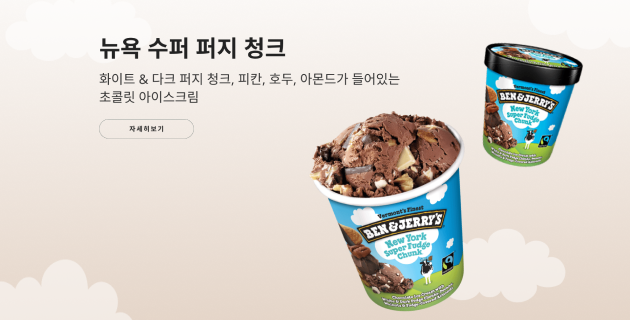
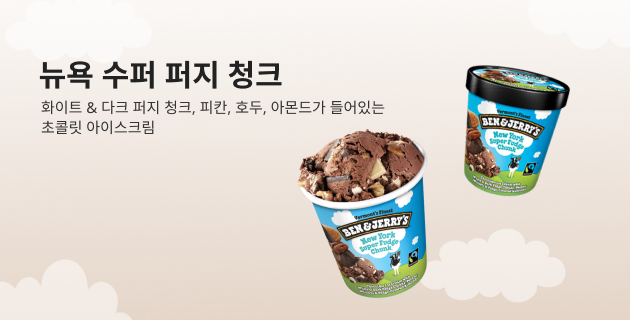
d

Changed region(s): [[0.0603, 0.0938, 0.9349, 0.9688]]

diff --git a/07company/css/style.css b/07company/css/style.css
@@ -7,8 +7,9 @@ html,body{height: 100%;}
 
 /* header */
 
-#header{width: 100%; position: fixed; z-index: 1000;}
-.navbarWrap {
+#header{width: 100%; z-index: 1000; position: fixed; transition: .5s;}
+#header.fixed{ position: fixed; background: white;}
+ .navbarWrap {
     display: flex;
     position: relative;
     justify-content: space-between;
@@ -42,7 +43,7 @@ html,body{height: 100%;}
     height: 200px;
 }
 /* submenu */
-.submenuWrap{
+.navbar .submenuWrap{
     position: absolute;
     width: 700px;
     height: 180px;
@@ -89,19 +90,19 @@ html,body{height: 100%;}
 
 
 /* visual */
+.txtWrap{
+    width: 1240px;
+    top: 30%; left: 15%;
+    position: relative;
+ }
 .visualWrap{
     width: 100%; height: 900px;
     background-image: url(../images/box_img01.png);
     background-position: center;
     background-size: cover;
     background-repeat: no-repeat;
-    position: relative;
     margin-bottom: 20px;
-}
-.txtWrap{
-   width: 1240px;
-   top: 30%; left: 15%;
-   position: relative;
+    position: relative;
 }
 .txtWrap h1{ font-size: 70px; margin-bottom: 20px;}
 .txtWrap p{ font-size: 40px; margin-bottom: 50px;}
@@ -116,27 +117,27 @@ html,body{height: 100%;}
     transition: .3s;
 }
 .txtWrap div:hover{background: rgba(0, 0, 0, .3)}
-.visualWrap img{ 
-    position: absolute;
-}
 .mlogo, .mVisual{display:none;}
 
 .ice01{
+    position: absolute;
     width: 400px; height: 300px;
-    left: calc(35%); top: calc(40%);
+    left: calc(30%); top: calc(40%);
     animation: ice01 1s forwards ;
     animation-delay: .5s;
   
 }
 .ice02{
+    position: absolute;
     width: 300px;height: 300px;
-    left: calc(60%); top: calc(15%);
+    left: calc(70%); top: calc(-65%);
     animation: ice01 1s forwards ;
     animation-delay: .8s;
 }
 .ice03{
+    position: absolute;
     width: 350px;height: 300px;
-    left: calc(60%); top: calc(60%);
+    left: calc(70%); top: calc(90%);
     animation: ice01 1s forwards ;
     animation-delay: 1s;
 }
@@ -232,9 +233,9 @@ html,body{height: 100%;}
     padding: 30px; 
 }
 .sImg img{width:100%;height: 100%;}
-.sTxt h2{margin-bottom: 5px; color: #A96D28;}
-.sTxt h3{font-size: 15px; margin-bottom: 10px;}
-.sTxt h4{font-size: 14px; margin-bottom: 10px;}
+.sTxt h2{margin-bottom: 10px; color: #A96D28; font-size: 35px;}
+.sTxt h3{color: #664723; font-size: 16px; margin-bottom: 10px;}
+.sTxt h4{font-size: 20px; margin-bottom: 15px; color: #222;}
 .sTxt p{font-size: 14px; color: #333;}
 
 .btnWrap{
@@ -277,6 +278,7 @@ html,body{height: 100%;}
     background: #FFA3ED;
     overflow: hidden;
     padding: 50px;
+   
 }
 .contents>ul>li:nth-child(6){
     background: #B360A2;
@@ -296,11 +298,15 @@ html,body{height: 100%;}
   justify-content: center;
   margin-bottom: 50px;
 }
+.contents>ul>li:nth-child(5) img,
+.contents>ul>li:nth-child(6) img,
+.contents>ul>li:nth-child(7) img{transition: .5s;}
 .contents>ul>li:nth-child(5) img:hover,
 .contents>ul>li:nth-child(6) img:hover,
 .contents>ul>li:nth-child(7) img:hover{
     transform: translateY(-45px);
-    transition: .3s;
+   
+    
 }
 
 .contents>ul>li:nth-child(8){
@@ -355,6 +361,7 @@ html,body{height: 100%;}
     border-radius: 50px;
     display: flex;
     justify-content: center;align-items: center;
+    cursor: pointer;
 }
 .sec02_Wrap>div img{width: 150px;height: 200px;}
 .sec02_Wrap h3{
@@ -415,6 +422,7 @@ html,body{height: 100%;}
 .eventWrap{
     height: 300px;
     display: flex;
+    gap: 5px;
     align-items: center;
     flex-basis: 50%;
 }
@@ -422,7 +430,6 @@ html,body{height: 100%;}
     font-weight: bold;
     font-size: 18px;
     width: 290px;height: 60px;
-    border: 1px solid #4B5E5E;
     display: flex;
     justify-content: center; align-items: center;
     border-radius: 30px;
@@ -438,20 +445,22 @@ html,body{height: 100%;}
     flex-direction: column;
     border-radius: 10px;
 }
+.eventWrap .store>p{background:white;}
 .eventWrap h3{font-size: 30px; line-height: 50px; }
 .eventWrap .store h3{
     color: white; 
     text-align: center;
     margin-bottom: 20px;
 }
-.eventWrap .store p:hover{background: rgba(0, 0, 0, .3);cursor: pointer;}
+.eventWrap .store p:hover{cursor: pointer;}
 .eventWrap .delievery{
     display: flex; width:630px; height: 100%;
     flex-direction: row;
-    border: 1px solid #000;
+    border: 1px solid #999;
     padding: 20px;
     border-radius: 10px;
 }
+.eventWrap .delievery p{background-color:#FE7B9A;color: white;}
 .delievery img{
     width: 150px;height: 150px;
     margin: 35px;
@@ -461,7 +470,7 @@ html,body{height: 100%;}
     color: #333;margin-top: 20px;
 }
 .delievery .deTxt h4{margin-bottom: 20px;}
-.delievery .deTxt p:hover{background: rgba(0, 0, 0, .3);cursor: pointer;}
+.delievery .deTxt p:hover{cursor: pointer;}
 
 /* footer */
 .footer{ width: 100%; background-color:#F6F6F6;}
@@ -492,17 +501,23 @@ html,body{height: 100%;}
 .subvisualWrap .txtWrap p{font-size: 20px; line-height: 30px;}
 .subMenu .tab{display: flex;}
 .subMenu{position: relative;
-   top: -5%;
+   top: -5%; 
 }
 
 .tab li {
     flex: 1 1 25%;
     height: 50px; display: flex;
     justify-content: center; align-items: center;
-    background: pink;
+    background: white;
     cursor: pointer;
     font-weight: bold;
 }
+.tab li.active{background: #ECEDEA;}
+.content{width: 1240px;position: relative;}
+.content p{position: absolute; right: 0; padding: 10px;font-weight: bold;}
+.content img{width: 100%;}
+.content div{display: none;}
+.content div:nth-child(1){display: block;}
 
 
 

diff --git a/07company/sub01.html b/07company/sub01.html
@@ -19,13 +19,13 @@
 <body>
 <header id="header">
     <div class="navbarWrap container">
-        <h1><a href="#"><img src="images/logo.png" alt=""></a></h1>
+        <h1><a href="./index.html"><img src="images/logo.png" alt=""></a></h1>
         <nav class="navbar">
            <ul>
                 <li class="active"><a href="#">회사소개</a>
                     <div class="submenuWrap">
                         <ul class="submenu">
-                            <li><a href="#">조직체계</a></li>
+                            <li><a href="./sub01.html">조직체계</a></li>
                             <li><a href="#">문의</a></li>
                             <li><a href="#">채용정보</a></li>
                             <li><a href="#">비즈니스</a></li>
@@ -46,9 +46,9 @@
                     <div class="submenuWrap">
                         <ul class="submenu">
                             <li><a href="#">보도자료</a></li>
-                            <li><a href="#">아이스크림을 만드는 방법</a></li>
-                            <li><a href="#">벤앤제리스 재단</a></li>
-                            <li><a href="#">벤앤제리스 사회활동</a></li>
+                            <li><a href="#">제조방법</a></li>
+                            <li><a href="#">재단소개</a></li>
+                            <li><a href="#"></a>사회활동</a></li>
                         </ul>
                     </div>
                 </li>
@@ -99,12 +99,28 @@
 </div>
 <div class="subMenu container">
     <ul class="tab">
-        <li>조직체계</li>
+        <li class="active">조직체계</li>
         <li>문의</li>
         <li>채용정보</li>
         <li>비즈니스</li>
     </ul>
     <div class="content">
+        <div>
+            <p>HOME > 회사소개 > 조직체계</p>
+            <img src="images/sub_con01.png" alt="">
+        </div>
+        <div>
+            <p>HOME > 회사소개 > 문의</p>
+            <img src="images/sub_con01.png" alt="">
+        </div>
+        <div>
+            <p>HOME > 회사소개 > 채용정보</p>
+            <img src="images/sub_con01.png" alt="">
+        </div>
+        <div>
+            <p>HOME > 회사소개 > 비즈니스</p>
+            <img src="images/sub_con01.png" alt="">
+        </div>
 
     </div>
 
@@ -139,5 +155,32 @@
 <script src="https://ajax.googleapis.com/ajax/libs/jquery/3.6.0/jquery.min.js"></script>
 <script src="https://cdnjs.cloudflare.com/ajax/libs/Swiper/8.3.2/swiper-bundle.min.js" integrity="sha512-V1mUBtsuFY9SNr+ptlCQAlPkhsH0RGLcazvOCFt415od2Bf9/YkdjXxZCdhrP/TVYsPeAWuHa+KYLbjNbeEnWg==" crossorigin="anonymous" referrerpolicy="no-referrer"></script>
 <script src="js/script.js"></script>
+<script>
+    nowMenu(0);
+
+    let params = new URLSearchParams(location.search);
+
+    function tab(){
+        $(".tab li").click(function(){
+            let i = $(this).index();
+            $(".tab li").removeClass("active");
+            $(this).addClass("active")
+
+            $(".content div").hide().eq(i).show()
+        })
+    }
+    function view(i){
+        if(i == null){
+            $(".tab li").removeClass("active").eq(i).addClass("active");
+            $(".content div").hide().eq(i).show();
+
+            tab()
+        }else{
+            tab()
+        }
+    }
+    view(params.get("submenuWrap"))
+</script>
+
 </body>
 </html>

diff --git a/07company/index.html b/07company/index.html
@@ -19,10 +19,10 @@
 <body>
 <header id="header">
     <div class="navbarWrap container">
-        <h1><a href="#"><img src="images/logo.png" alt=""></a></h1>
+        <h1><a href="./index.html"><img src="images/logo.png" alt=""></a></h1>
         <nav class="navbar">
            <ul>
-                <li><a href="#">회사소개</a>
+                <li><a href="./sub01.html">회사소개</a>
                     <div class="submenuWrap">
                         <ul class="submenu">
                             <li><a href="#">조직체계</a></li>
@@ -92,16 +92,16 @@
 </header>
 
 <div class="visualWrap container">
+    
     <div class="txtWrap">
         <h1>아이스크림의 기준</h1>
         <p>최고의 품질로 보답합니다.</p>
         <div>자세히보기</div>
+        <img src="images/ice02.png" alt="" class="ice01">
+        <img src="images/ice01.png" alt="" class="ice02">
+        <img src="images/ice03.png" alt="" class="ice03">
     </div>
-
-    <img src="images/ice02.png" alt="" class="ice01">
-    <img src="images/ice01.png" alt="" class="ice02">
-    <img src="images/ice03.png" alt="" class="ice03">
-    
+ 
     <div class="mvisualWrap">
         <div><img src="images/logo.png" alt="" class="mlogo"></div>
         <div><img src="images/m_visual.png" alt="" class="mVisual"></div>
@@ -333,5 +333,8 @@
 <script src="https://ajax.googleapis.com/ajax/libs/jquery/3.6.0/jquery.min.js"></script>
 <script src="https://cdnjs.cloudflare.com/ajax/libs/Swiper/8.3.2/swiper-bundle.min.js" integrity="sha512-V1mUBtsuFY9SNr+ptlCQAlPkhsH0RGLcazvOCFt415od2Bf9/YkdjXxZCdhrP/TVYsPeAWuHa+KYLbjNbeEnWg==" crossorigin="anonymous" referrerpolicy="no-referrer"></script>
 <script src="js/script.js"></script>
+<script>
+    nowMenu("main")
+</script>
 </body>
 </html>

diff --git a/07company/js/script.js b/07company/js/script.js
@@ -1,3 +1,12 @@
+$(window).scroll(function(){
+    let scrollY = window.pageYOffset;
+
+    if( scrollY>10){
+        $("#header").addClass("fixed");
+    }else{
+        $("#header").removeClass("fixed");
+    }
+})
 
 
 
@@ -13,15 +22,15 @@ $(".overlay,.xicon").click(function(){
 
 $(".bg").slideUp();
 $(".navbar>ul>li").hover(function(){
-    $(".bg, .submenuWrap, .submenu").stop().slideDown();
+    $(".bg, .navbar .submenuWrap,.navbar .submenu").stop().slideDown();
 },function(){
-    $(".bg, .submenuWrap").stop().slideUp();
+    $(".bg, .navbar .submenuWrap").stop().slideUp();
 
 })
 
 
 console.log("index");
-$(".navbar>ul>").clone().appendTo(".mMenu")
+$(".navbar>ul>li").clone().appendTo(".mMenu")
 
 
 $(".mMenu>li>a").click(function(e){
@@ -30,9 +39,9 @@ $(".mMenu>li>a").click(function(e){
 
     $(".mMenu>li>a").parent().find(".submenuWrap").slideUp()
     if( $(this).hasClass("active") ){
-
+        $(".mMenu>li>a").removeClass("active");
     }else{
-        $(this).parent().find(".submenuWrap").show();
+        $(this).parent().find(".submenuWrap").slideDown();
         $(".mMenu>li>a").removeClass("active");
         $(this).addClass("active");
     }
@@ -73,3 +82,5 @@ var swiper = new Swiper(".mySwiper", {
     }
     $(".slide>div").eq(num).css({"z-index":view++,opacity:0}).stop().animate({opacity:1},500)
   }
+
+  
